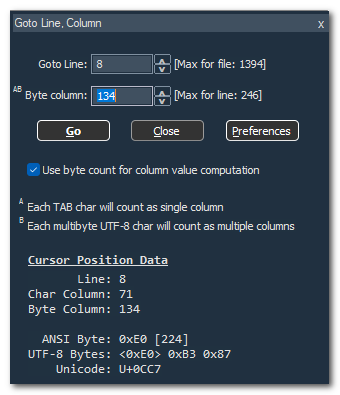
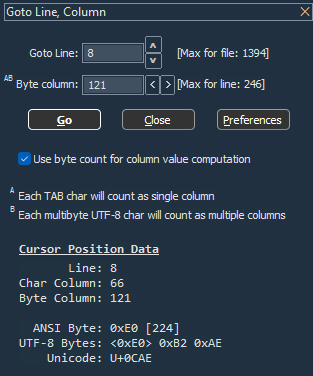
Updated README.MD and documentation images

diff --git a/README.md b/README.md
@@ -2,7 +2,7 @@
 
 ![GitHub](https://img.shields.io/github/license/shriprem/Goto-Line-Col-NPP-Plugin) ![GitHub release (latest by date)](https://img.shields.io/github/v/release/shriprem/Goto-Line-Col-NPP-Plugin) ![GitHub all releases](https://img.shields.io/github/downloads/shriprem/Goto-Line-Col-NPP-Plugin/total)
 
-[Current Version: 2.4.2.0](https://github.com/shriprem/Goto-Line-Col-NPP-Plugin/blob/master/VersionHistory.md)
+[Current Version: 2.4.3.0](https://github.com/shriprem/Goto-Line-Col-NPP-Plugin/blob/master/VersionHistory.md)
 
 A plugin for navigating to a specified line and column position in a file. Depending on your requirement, the column positioning can be specified to use either byte counts or character counts.
 
